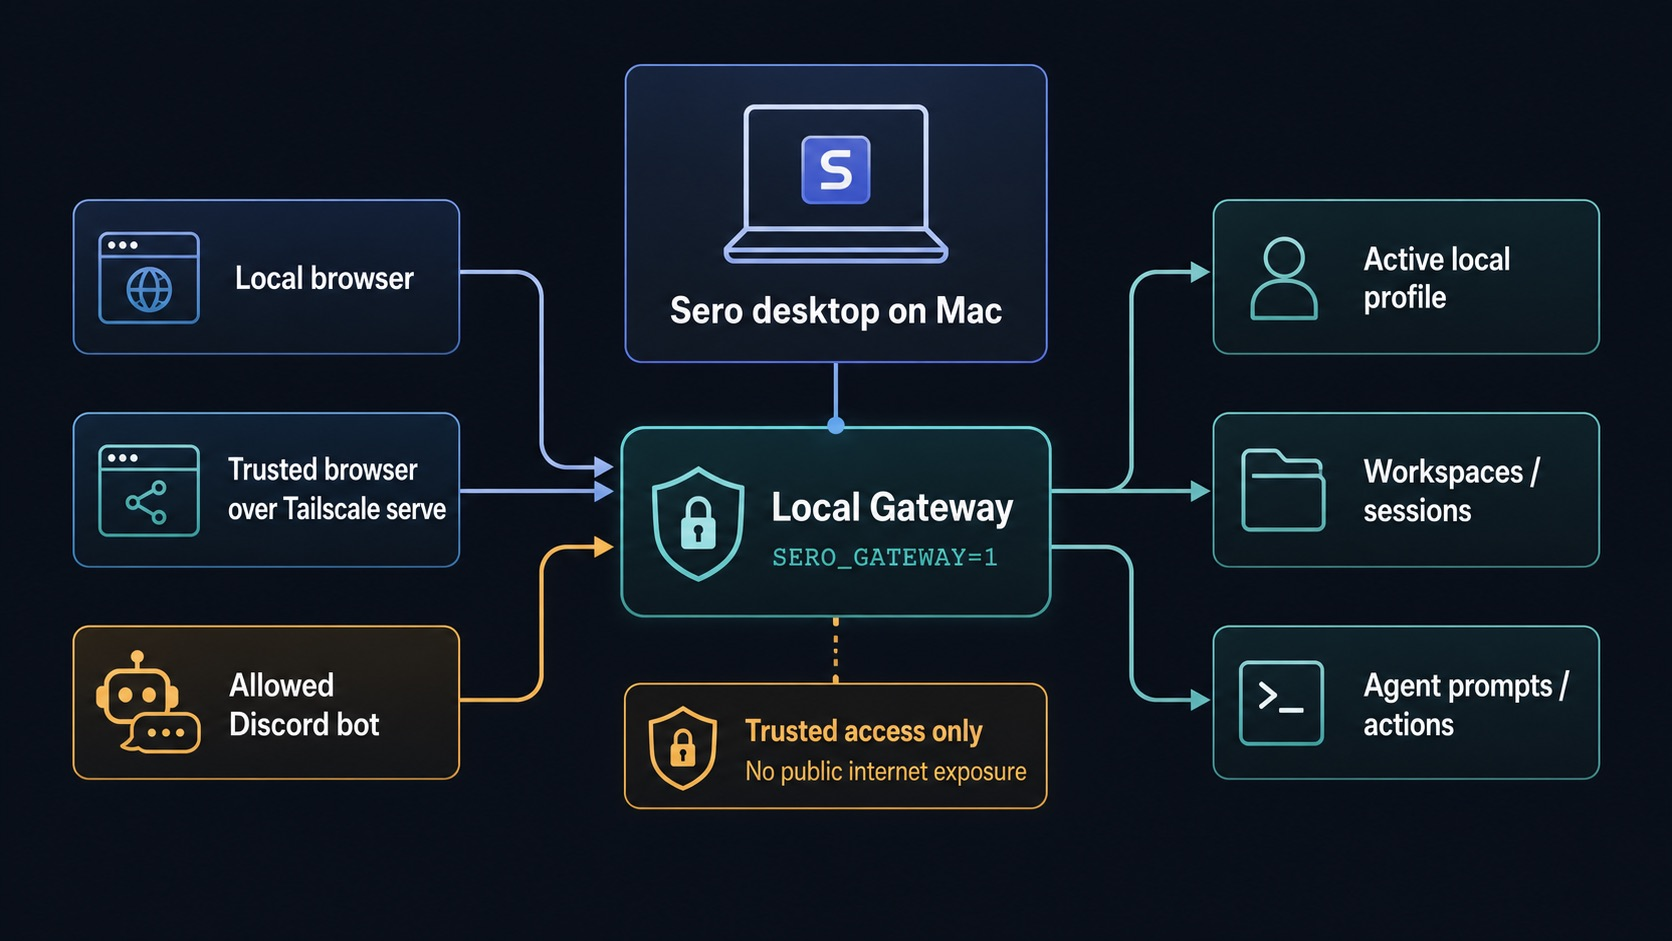
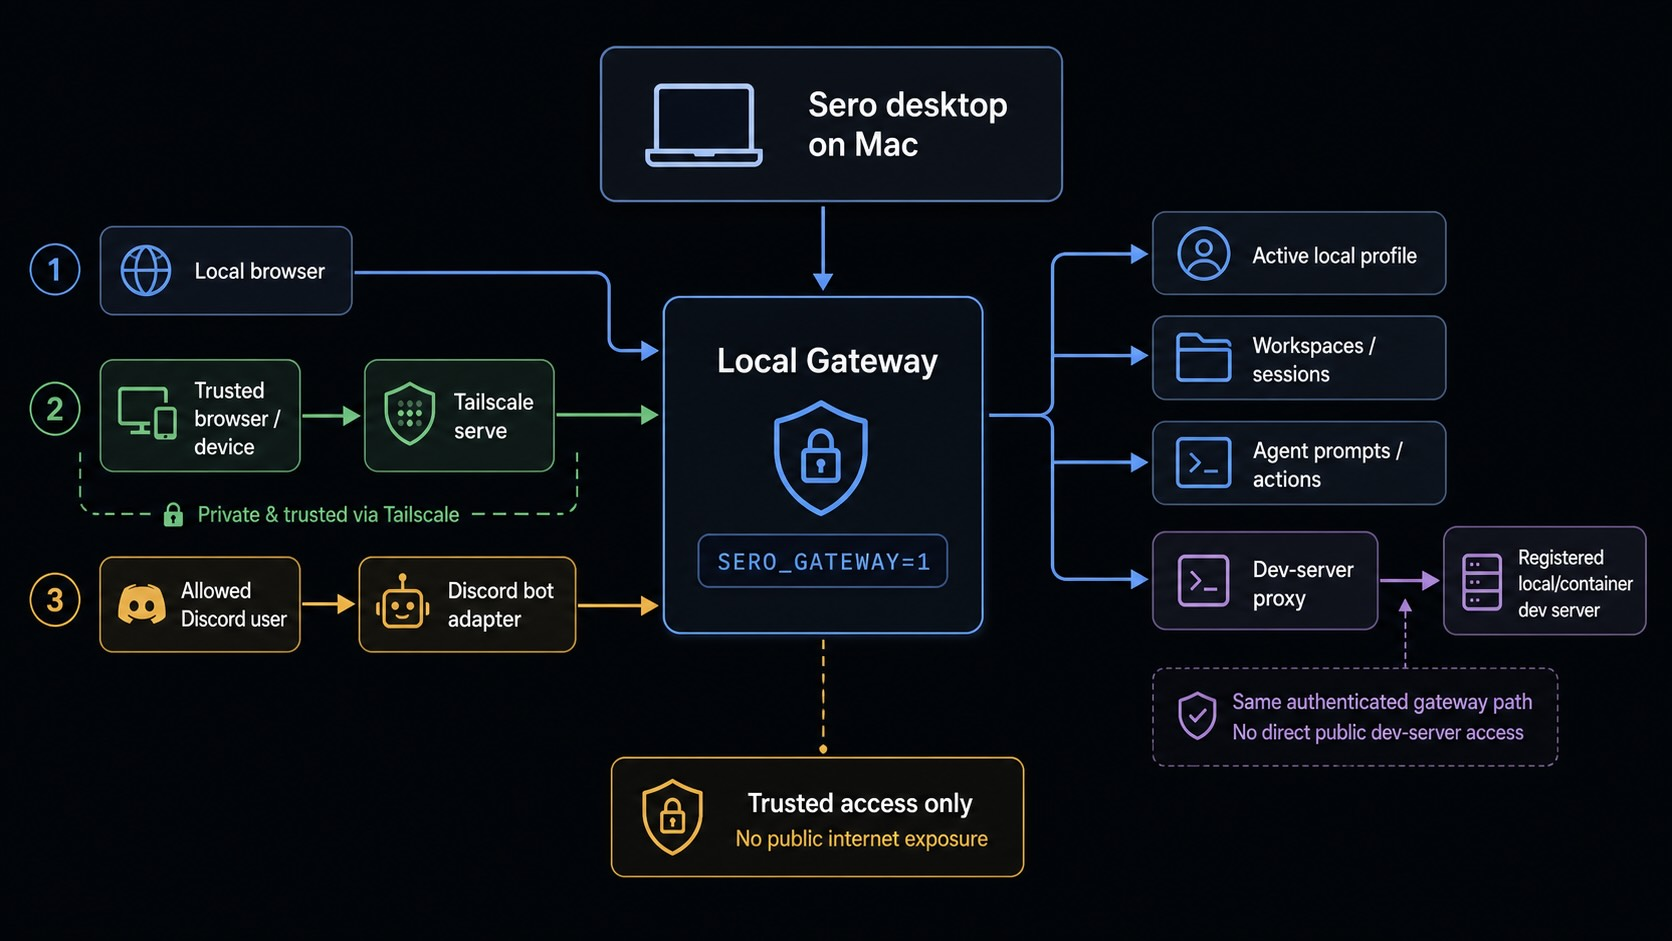
docs: added dev-server proxy information

Changed region(s): [[0.0, 0.0308, 0.9952, 0.8321], [0.3421, 0.7088, 0.622, 0.9554], [0.6531, 0.7088, 0.6842, 0.7396]]

diff --git a/apps/docs-site/docs/guide/remote-control.md b/apps/docs-site/docs/guide/remote-control.md
@@ -1,11 +1,15 @@
 # Remote Control
 
 Remote Control lets you operate your local Sero desktop session from another
-client. It has two separate integration paths:
+client. It has three related integration paths:
 
 - **Remote web access over Tailscale** — a browser UI called **Sero Remote** can
   connect to your local Sero gateway from another trusted device on your
   Tailscale tailnet.
+- **Remote dev-server previews** — dev servers started and registered inside
+  Sero desktop can be opened through Sero Remote, so a Vite/Next/Express/etc.
+  preview running on your Mac or workspace container is reachable from another
+  trusted tailnet browser.
 - **Optional Discord bot** — a configured Discord bot can forward allowed DMs or
   mentions into Sero as prompts.
 
@@ -32,34 +36,20 @@ Read [Security / Privacy](/reference/security-privacy) before enabling it.
 | --- | --- | --- |
 | **Local web gateway** | Serves Sero Remote locally for testing and pairing | Localhost only |
 | **Sero Remote over Tailscale** | Lets another browser/device on your tailnet use the web UI | Tailscale VPN / `tailscale serve` |
+| **Dev-server proxy** | Lets Sero Remote open registered workspace dev servers through the same gateway | Tailscale VPN / `tailscale serve` plus a running registered dev server |
 | **Discord bot** | Lets allowed Discord users send prompts by DM or mention | Discord bot token and allowlist |
 
 Use Tailscale **serve** for tailnet-only exposure. Do not use public Tailscale
 funneling or direct public-internet exposure during the alpha.
-
-```mermaid
-flowchart LR
-  Desktop[Sero desktop on Mac] --> Gateway["Local gateway<br/>SERO_GATEWAY=1"]
-
-  BrowserLocal[Local browser] --> Gateway
-  BrowserRemote[Trusted browser/device] --> Tailscale[Tailscale serve]
-  Tailscale --> Gateway
-
-  Discord[Allowed Discord user] --> Bot[Discord bot adapter]
-  Bot --> Gateway
-
-  Gateway --> Profile[Active local Sero profile]
-  Gateway --> Sessions[Workspaces and sessions]
-  Gateway --> Agent[Agent prompts and actions]
-```
 
 ![Remote Control access paths](../assets/generated/img9.jpg)
 
 ## Sero Remote web access
 
 Sero Remote is the browser-based remote UI. It can show workspaces and sessions,
-send prompts, display streamed responses/tool activity, and expose remote panels
-such as files or artifacts where supported.
+send prompts, display streamed responses/tool activity, expose remote panels
+such as files or artifacts where supported, and open registered workspace dev
+servers as remote previews.
 
 ![Sero Remote chat](../assets/images/remote-web-1.jpg)
 
@@ -84,6 +74,44 @@ A basic/legacy local web UI may also be available on:
 For remote web access, Tailscale is the recommended transport. Sero can expose
 the gateway to your private tailnet through `tailscale serve`; a paired browser
 then uses the tailnet URL and a temporary web token/login flow.
+
+## Remote dev-server previews
+
+Sero desktop tracks dev servers that are started through its workspace tooling or
+registered by the agent/CLI. When the gateway is enabled, Sero Remote can list
+those registered servers and open them through the gateway's built-in reverse
+proxy. This makes a dev server running in the local desktop session available to
+a trusted browser on your tailnet without exposing the dev server itself as a
+separate public or tailnet service.
+
+The proxy is path-based on the gateway origin:
+
+```text
+/p/<workspaceId>/<port>/...
+```
+
+Sero Remote obtains a short-lived dev-proxy ticket over its already
+authenticated WebSocket connection before navigating to that path. The first
+navigation may include the ticket as `?t=...`; the gateway immediately promotes
+it to an `HttpOnly` cookie scoped to that workspace/port proxy path. Tickets are
+bound to one workspace and one port and expire automatically.
+
+Practical behavior:
+
+- only dev servers registered in Sero's dev-server registry are reachable; the
+  proxy is not an arbitrary port scanner
+- workspace-scoped web tokens can only create proxy tickets for workspaces they
+  are allowed to access
+- HTTP requests and WebSocket upgrades are proxied, so common HMR sockets can
+  work through the remote preview
+- HTML/CSS/JavaScript responses and redirect/cookie paths are rewritten where
+  possible so absolute paths continue to work under `/p/<workspaceId>/<port>/`
+- the upstream dev server continues to run on your Mac/workspace container; the
+  remote browser talks only to the Sero gateway URL served over Tailscale
+
+If a preview does not appear, confirm that the desktop app shows the dev server
+as registered/running for the target workspace and that the paired web client has
+access to that workspace.
 
 ## Discord bot access
 
@@ -117,6 +145,8 @@ that your desktop app is using. Current gateway capabilities include:
 - reading session history
 - listing and reading files through supported gateway file APIs
 - listing and fetching artifacts
+- listing registered dev servers
+- creating short-lived proxy tickets for registered dev-server previews
 - creating, listing, and revoking web tokens when authenticated with the master
   token
 
@@ -143,8 +173,14 @@ Current web-token behavior includes:
 - tokens can be scoped to explicit workspace IDs or act as owner/profile tokens
 - paired-device flows may grant access to all current workspaces and future
   workspaces in the profile
+- scoped tokens can only request dev-server proxy tickets for authorized
+  workspaces
 - default expiry is time-limited
 - only a limited number of active web tokens are retained
+
+Dev-server proxy tickets are separate short-lived HMAC-signed bearers. They are
+issued only after gateway authentication, bind one `(workspaceId, port)` pair,
+and are stored as path-scoped cookies after the initial preview navigation.
 
 Do not paste gateway tokens, web-token files, login URLs, QR codes, Discord bot
 tokens, or Discord allowlists into bug reports, screenshots, chat transcripts, or
@@ -180,6 +216,8 @@ During the current source-only alpha, Remote Control does **not** promise:
 - safe public-internet exposure
 - full per-tool restrictions for gateway clients
 - a complete security boundary around agent actions
+- compatibility with every dev server, framework, CSP, HMR setup, or absolute
+  URL pattern through the path-prefix proxy
 - feature parity between the web UI and the desktop UI
 - feature parity between Discord bot prompts and the web UI
 
@@ -198,6 +236,9 @@ If Remote Control behaves unexpectedly, include:
 - whether Tailscale `serve` was active, and whether public funneling was avoided
 - whether the issue involved a master token or a web token
 - whether the web token was intended to be workspace-scoped
+- for dev-server preview issues: workspace ID, port, framework, whether the
+  server was registered/running in Sero desktop, and whether HTTP or HMR/WebSocket
+  traffic failed
 - whether Discord was configured with `SERO_DISCORD_TOKEN` and an explicit
   `SERO_DISCORD_USERS` allowlist
 - the active platform and source build details from
